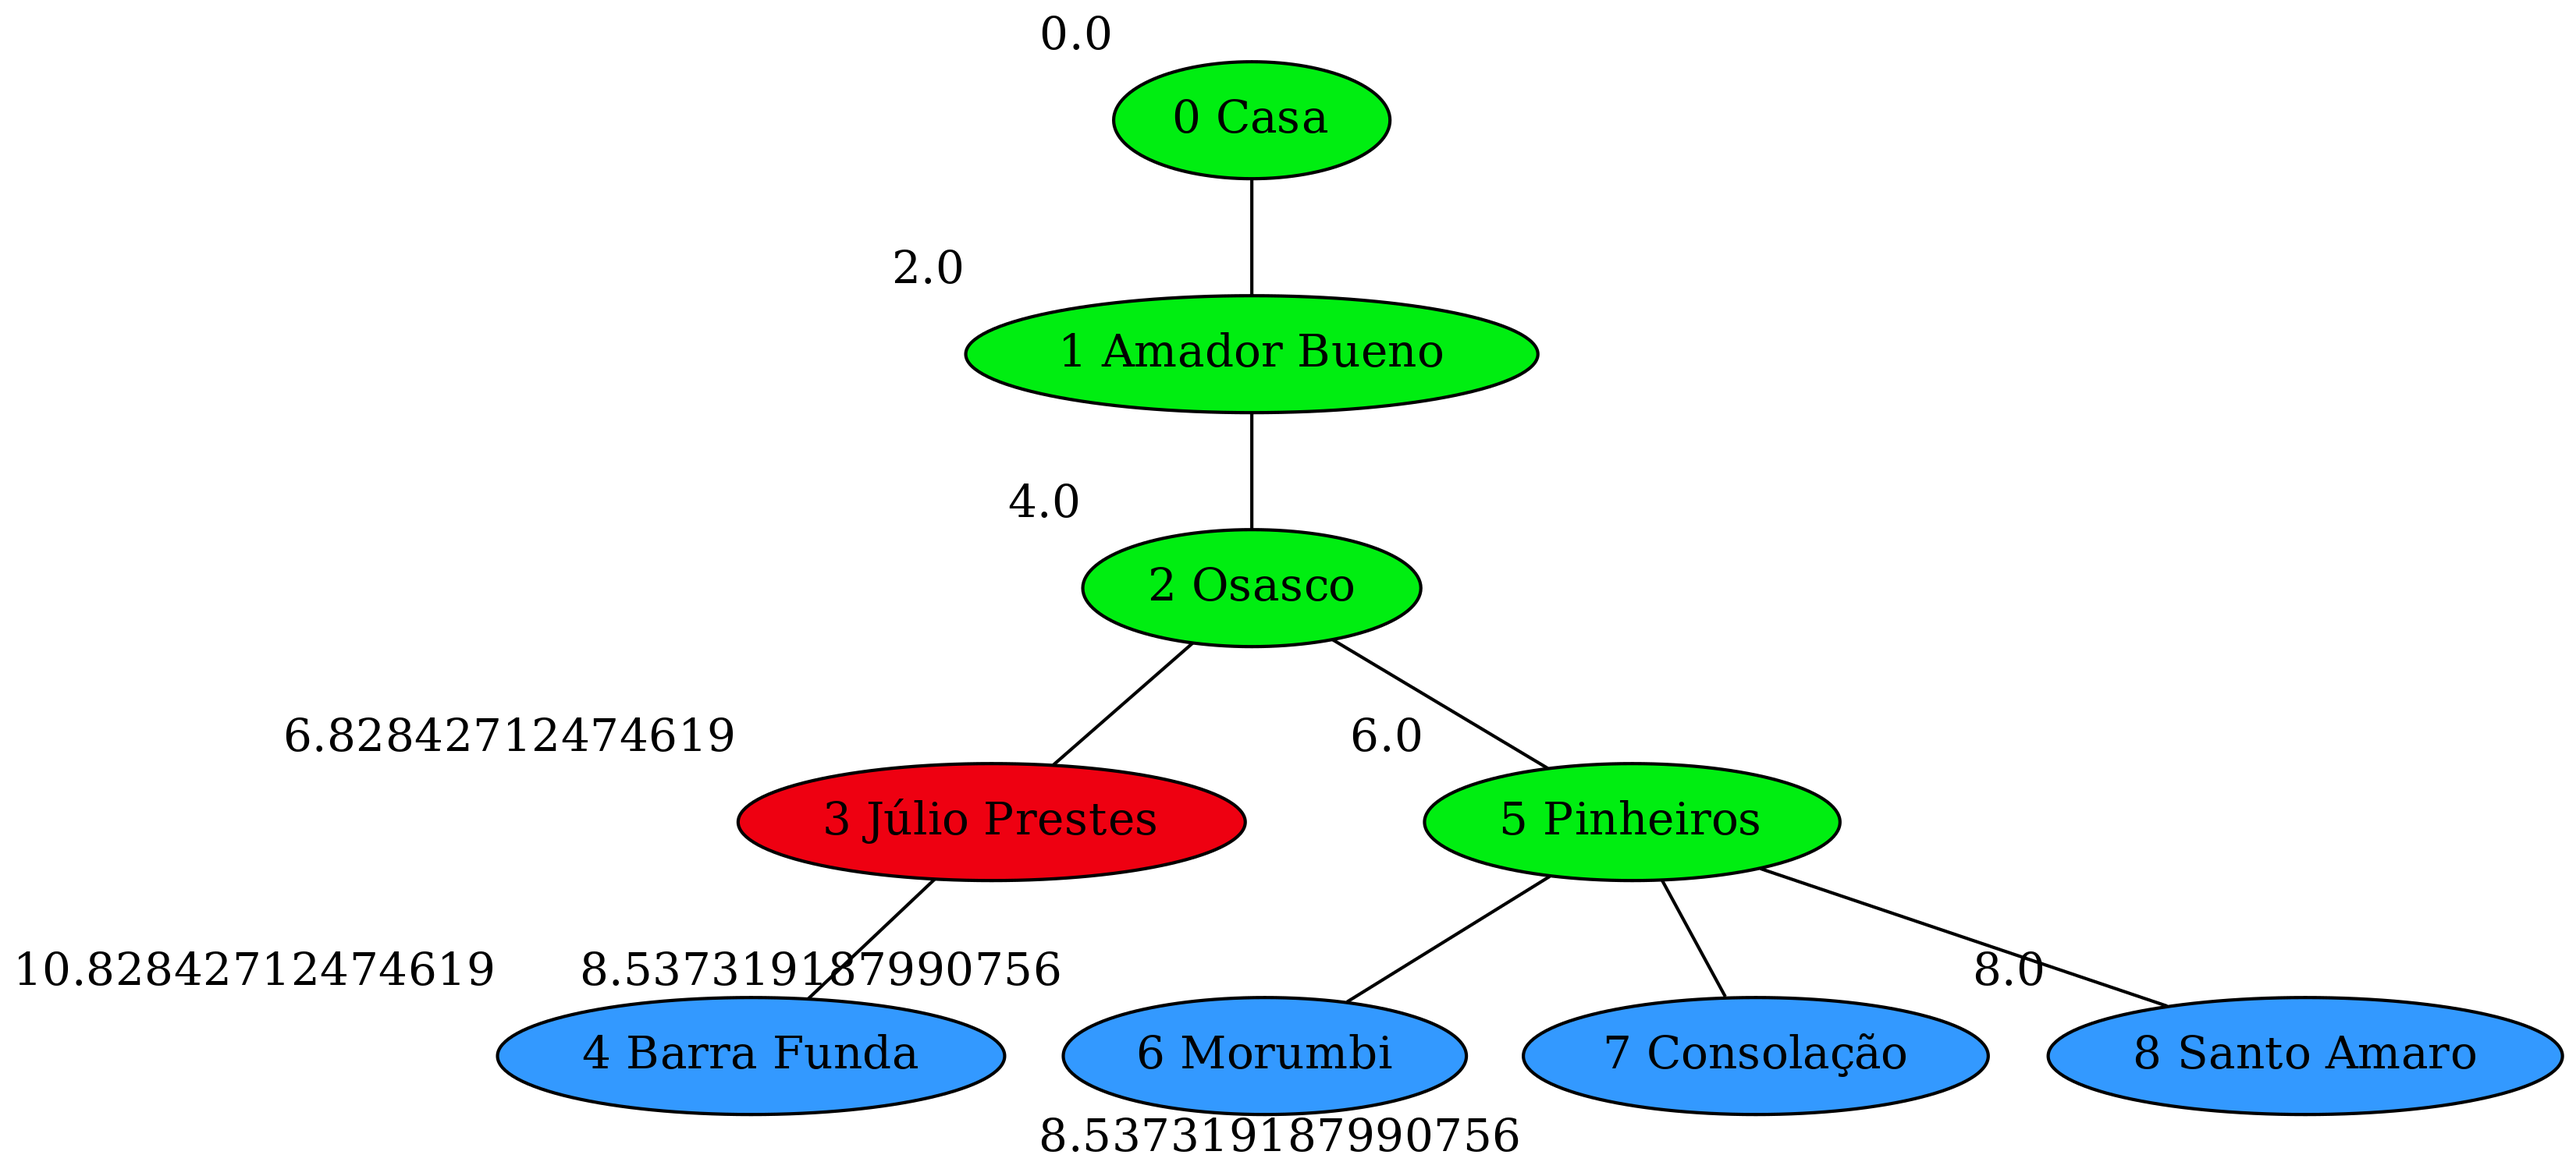
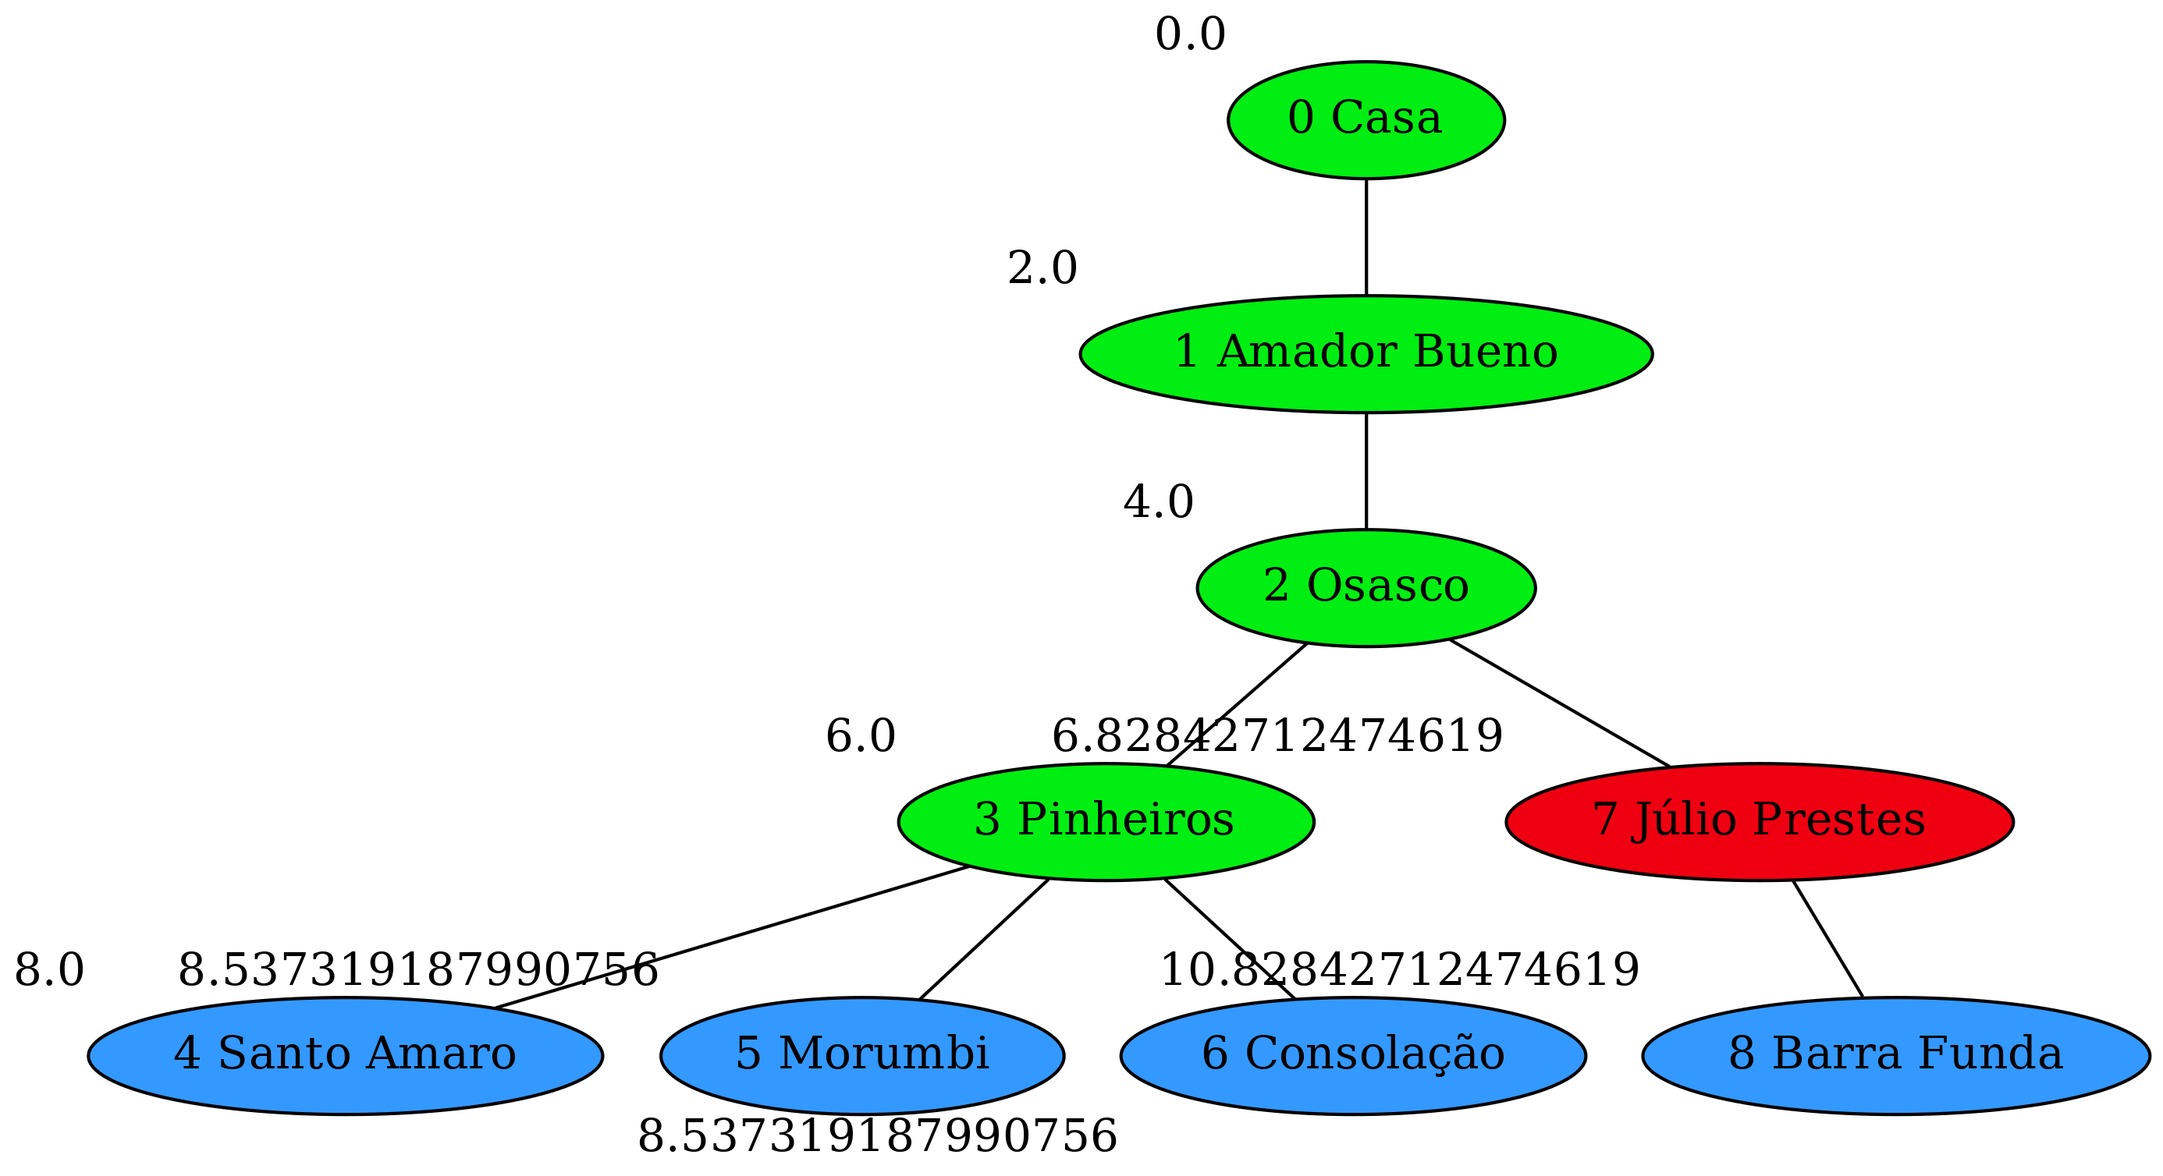
alteração grafoDados

diff --git a/buscaProfundidadeHeuristica/GrafoDados.py b/buscaProfundidadeHeuristica/GrafoDados.py
@@ -1,41 +1,34 @@
 # Criar um dicionário com todos os mapeamentos
 conexoes = {}
-conexoes ["Casa"] = ["Amador Bueno"]
-conexoes ["Amador Bueno"] = ["Osasco"]
-conexoes ["Osasco"] = ["Júlio Prestes", "Pinheiros", "Amador Bueno"]
-conexoes ["Júlio Prestes"] = ["Barra Funda" ]
-conexoes ["Barra Funda"] = ["Faculdade Impacta"]
-conexoes ["Pinheiros"] = ["Morumbi", "Consolação", "Santo Amaro"]
-conexoes ["Santo Amaro"] = [ "Santa Cruz"]
-conexoes ["Consolação"] = ["Anhangabaú"]
-conexoes ["Anhangabaú"] = ["Barra Funda"] 
-conexoes ["Morumbi"] = ["Santo Amaro"]
-conexoes ["Sé"] = ["Barra Funda"]
-conexoes ["Faculdade Impacta"] = ["Barra Funda"]
-conexoes ["Santa Cruz"] = ["Sé"]
+conexoes ["Casa"] = {"Amador Bueno"}
+conexoes ["Amador Bueno"] = {"Osasco", "Casa"}
+conexoes ["Osasco"] = {"Júlio Prestes", "Pinheiros", "Amador Bueno"}
+conexoes ["Júlio Prestes"] = {"Osasco", "Barra Funda"}
+conexoes ["Barra Funda"] = {"Anhangabaú", "Sé", "Júlio Prestes", "Faculdade Impacta"}
+conexoes ["Pinheiros"] = {"Morumbi", "Consolação", "Osasco", "Santo Amaro"}
+conexoes ["Júlio Prestes"] = {"Osasco", "Barra Funda"}
+conexoes ["Santo Amaro"] = {"Morumbi", "Santa Cruz", "Pinheiros"}
+conexoes ["Consolação"] = {"Anhangabaú", "Pinheiros"}
+conexoes ["Anhangabaú"] = {"Consolação", "Barra Funda"} 
+conexoes ["Morumbi"] = {"Pinheiros", "Santo Amaro"}
+conexoes ["Sé"] = {"Barra Funda", "Santa Cruz"}
+conexoes ["Faculdade Impacta"] = {"Barra Funda"}
+conexoes ["Santa Cruz"] = {"Sé", "Santo Amaro"}
 
 # localização de todos os lugares
 localizacao ={}
 localizacao ["Casa"] = [3,8]
 localizacao ["Amador Bueno"] = [3,7]
 localizacao ["Osasco"] = [3,6]
-
 localizacao["Pinheiros"]= [3,5]
-
 localizacao["Morumbi"] = [2,4]
 localizacao["Santo Amaro"] = [3,4]
 localizacao ["Consolação"] = [4,4]
-
 localizacao ["Santa Cruz"] = [3,3]
 localizacao ["Sé"] = [2,3]
-
-localizacao["Anhamgabaú"] = [4,3]
-
-
+localizacao["Anhangabaú"] = [4,3]
 localizacao["Júlio Prestes"] = [5,6]
-
 localizacao["Barra Funda"] = [1,6]
-
 localizacao["Faculdade Impacta"] = [6,0]
 
 

diff --git a/buscaProfundidadeHeuristica/desenhainicialteste.py b/buscaProfundidadeHeuristica/desenhainicialteste.py
@@ -11,7 +11,7 @@ estadosFilhos = estadoInicial.funcaoSucessora()
 for filho in estadosFilhos:
     filho = No(Estado(filho),raiz) 
 
-
+objetivo = No(estadoInicial.funcaoObjetivo(),)
 plotaArvore = DesenhaArvore()
 
 plotaArvore.criaDiagrama(raiz,raiz)
